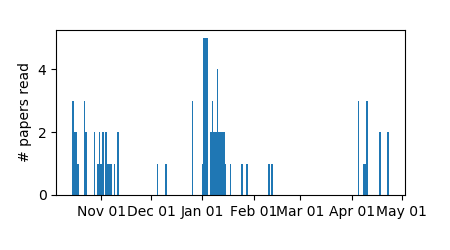
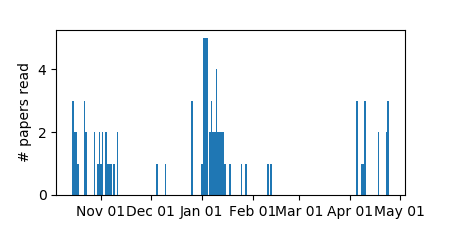
dvm papers

diff --git a/README.md b/README.md
@@ -69,10 +69,14 @@ Notes (author, year, journal in file header) on readings.  Top of each note docu
      * Salmon select focal points based on water-velocity and food supply to maximize net gain, and in specific regions, further organization is dictated by hierarchies in which dominant fish hold more optimal positions and thus increase their growth rates. 
 * [Fausch2014EBF - A historical perspective on drift foraging models for stream salmonids](https://github.com/leviner/ReadingList/tree/master/papers/ecology/fishes/Fausch2014EBF.md) 
      * An overview, given by Fausch, of the development of his drift foraging model and expansion and extended applications that have occurred since. 
+* [Mehner2012FB - Diel vertical migration of freshwater fishes - proximate triggers, ultimate causes and research perspectives](https://github.com/leviner/ReadingList/tree/master/papers/ecology/fishes/Mehner2012FB.md) 
+     * Review of patterns and mechanism of DVM in freshwater fish. 
 * [Power1984E - Depth Distributions of Armored Catfish: Predator-Induced Resource Avoidance?](https://github.com/leviner/ReadingList/tree/master/papers/ecology/fishes/Power1984E.md) 
      * Showed that for this population of loricariids, predation avoidance was more important than resource exploitation, and is dependent on age. 
 * [Robinson2019MEPS - Predation strategies of larval clownfish capturing evasive copepod prey](https://github.com/leviner/ReadingList/tree/master/papers/ecology/fishes/Robinson2019MEPS.md) 
      * Observe and quantify the feeding success and failure of larval fish as a function of both fish age (day post-hatch) and copepod stage. 
+* [ScheuerellSchindler2003E - Diel Vertical Migration by Juvenile Sockeye Salmon: Empirical Evidence for the Antipredation Window](https://github.com/leviner/ReadingList/tree/master/papers/ecology/fishes/ScheuerellSchindler2003E.md) 
+     * Juvenile sockeye migrate to maintain a specific light environment to minimize predation risk in lakes. 
 
 ### general 
  
@@ -80,8 +84,10 @@ Notes (author, year, journal in file header) on readings.  Top of each note docu
      * Brief letter on the history of behavioral ecology as a field 
 * [Heithaus2007JAE - State-dependent risk-taking by green sea turtles mediates top-down effects of tiger shark intimidation in a marine ecosystem](https://github.com/leviner/ReadingList/tree/master/papers/ecology/general/Heithaus2007JAE.md) 
      * Found that sea turtles in better condition were more likely to move out of regions of higher food quality when risk of predation increased.  Shark presence has non-lethal implications on the turtle and thus the seagrass population. 
-* [Lima1998B - Nonlethal Effects in the Ecology of Predator-Prey Interactions](https://github.com/leviner/ReadingList/tree/master/papers/ecology/general/Lima1998B.md) 
+* [Lampert1989FE - The Adaptive Significance of Diel Vertical Migration of Zooplankton](https://github.com/leviner/ReadingList/tree/master/papers/ecology/general/Lampert1989FE.md) 
      *  
+* [Lima1998B - Nonlethal Effects in the Ecology of Predator-Prey Interactions](https://github.com/leviner/ReadingList/tree/master/papers/ecology/general/Lima1998B.md) 
+     * Prey put in a significant amount of effort to avoid predation, and this behavior has major implications at the individual, population, and ecosystem level.  A review of the current research. 
 * [LimaDill1990CJZ - Behavioral decisions made under the risk of predation: a review and prospectus](https://github.com/leviner/ReadingList/tree/master/papers/ecology/general/LimaDill1990CJZ.md) 
      * Risk of predation is integral to decision making.  Here they outline many of the factors influenced by predation risk. 
 

diff --git a/papers/ecology/fishes/Mehner2012FB.md b/papers/ecology/fishes/Mehner2012FB.md
@@ -1,0 +1,35 @@
+04/24/19
+## Authors:
+Mehner, Thomas
+## Title:
+Diel vertical migration of freshwater fishes - proximate triggers, ultimate causes and research perspectives
+## Keywords:
+migration, feeding, predation, behavior
+## Geographic Coverage
+N/A
+## Field Dates:
+N/A
+## Significance:
+Review of patterns and mechanism of DVM in freshwater fish.
+
+## Notes:
+Significant work and review has been done on zooplankton DVM, with some work done on marine fish.  Here, the author provides an overview of these patterns in freshwater fish.
+
+Fish that perform DVM have two common traits: they are typically planktivorous, and they require cold/cool water, thus residing in the pelagic zone.  Thermal gradients in lakes, along with other abiotic drivers (which result in biotic gradients) are the cause of migration.  Vertical structure leads to microhabitats.
+
+Proximate cause: sensory-motor and developmental mechanisms, ultimate cause: the evolutionary development of behavior.  
+- Main proximate cause: light levels. depths and migration amplitude has correlated with water transparency (clearer water, migrate deeper, more predation risk). Vertical temperature may guide fish at night, looking for energetically optimal locations.
+- Ultimate causes are bioenergetics, feeding, and predation. Overall, none of the three following ultimate causes convincingly explain all cases of DVM.
+- Bioenergetic efficiency: maintaining low metabolic rate during the day in cold water and move into warmer water to feed.  However, if it was strictly bioenergetics, then they could reverse DVM and have the advantage of visual foraging.  DVM has also been reported in non-stratified lakes with no temperature gradients.  Additionally, fish grow fastest at warmer temperatures when food is not a variable.
+- Feeding Opportunity: Following preferred food, thus increasing encounter rate.  However DVM in fish also observed in lakes where zooplankton don't migrate.
+- Predator avoidance: Avoiding mortality from visual predators in high light.
+
+Multifactor explanations: 'anti predation window' where the visual predation range of fish and their predators differs, and planktonic fish can forage at lower light than piscivorous fish, thus prey fish move to dark layers in day to continue feeding, following the light window and minimizing predation risk while maximizing foraging potential.  Predation avoidance limits maximum growth potential.
+
+Wile this predicts the depth during the day, it doesn't predict the final position in the water column at night, and is suggested that fish may find bioenergetically optimal temperatures for their final spots and minimize swimming efforts.  A "complex interplay of various factors along several vertical gradients"
+
+Research Gaps: mechanisms
+- Energetics of migrations and buoyancy: the energy needed to maintain swimbladder volume and the speed of doing so.  Fish with compressed swim bladders have to produce additional lift (swimming) and exert more energy.  Oxygen requirements also differ with pressure.
+- How is tissue growth (and fat storage) influenced by cyclic temperature of DVM?
+- Age-specific migrations may depend on ontogenetic thermal preferences.
+- Threshold of light needed to feed?  Could be slow/unselective feeding in darkness or lighter feeding overall.  Light thresholds for predators are also needed.  DVM may be dependent on very slight variability in light, including moon.

diff --git a/papers/ecology/general/Lampert1989FE.md b/papers/ecology/general/Lampert1989FE.md
@@ -1,0 +1,56 @@
+04/24/19
+## Authors:
+Lampert, W.
+## Title:
+The Adaptive Significance of Diel Vertical Migration of Zooplankton
+## Keywords:
+migration, metabolic, tradeoffs, adaptation
+## Geographic Coverage
+N/A
+## Field Dates:
+N/A
+## Significance:
+
+## Notes:
+Many zooplankton perform DVM, typically evening ascent and morning descent.  Amplitude and shape of migration may differ by species and by age/stage, and be influenced by external conditions (turbidity, food).
+
+What we don't consider is the behavior and variability among individuals within the population migrating.  We only observe the net effect.
+
+DVM must have some adaptive value since everyone does it.  Serveral costs of migrating:
+- reduced food, thus slower growth
+- developmental time of eggs is extended
+- swimming requires energy
+
+Competing Hypotheses:
+- Metabolic or demographic advantage
+- avoidance of light-dependent mortality risk
+
+Metabolic and demographic advantage
+- resting in cold slow metabolic conditions during the day but still feeding in warm productive regions
+- copepods growing at cold temperatures may grow larger, resulting in a demographic advantage, though this has not been shown for those which grow in fluctuating temperatures
+- vertical migration appears to be energy disadvantageous
+
+*Energy conservation*
+- energy loss due to starvation in warm water would be greater than in cold, so migration may derive from the need to find food, migrating animals would receive a net gain, assuming feeding rate increases with temperature
+
+*Resource related Hypotheses*
+- algal biomass might be greater in the evening because growth during day, loses at night, and animals returning to the surface will feed at enhanced rates, with higher quality and abundance of food.
+- This depends on the animals feeding ability to adapt to changes in food concentration quickly.
+- Has been proposed to be a mechanism to reduce overexploitation. Harvesting at night and leaving algae to grow during the day results in a greater crop.
+
+Light related mortality
+- fitness is gained by reduced mortality instead of increased fecundity.  Zooplankton have no shelter, so their only refuge is darkness
+- You would predict:
+  - zooplankton must go up at dusk and back down at dawn
+  - larger animals (those more susceptible to being eaten by fish) would be the common ones to migrate
+  - amplitude of migration changes as a function of predation.  Seasonal patterns have in fact been observed as result of seasonal fish presence.
+- Visual predators are very effective at limiting fitness since they seek out larger and brooding animals
+
+Tradeoffs
+- There must be a tradeoff between maximum energy input and maximum protection, and thus migration is likely a compromise
+**In the presence of predation pressure, food availability and temperature gradients should determine migration patterns**
+
+No migration if the costs of staying deep are low, food availability is high and thermal gradient is not steep.  With increasingly bad conditions at depth, a higher ascent occurs.  In low food conditions, energy balance may not be maintained by only feeding for some period of time, thus they must take the rise of being at the surface and being eaten.
+
+Conclusions
+- Is there a unifying theory across all taxa?

diff --git a/papers/ecology/fishes/ScheuerellSchindler2003E.md b/papers/ecology/fishes/ScheuerellSchindler2003E.md
@@ -1,0 +1,31 @@
+04/24/19
+## Authors:
+Scheuerell, Mark D. and Schindler, Daniel E.
+## Title:
+Diel Vertical Migration by Juvenile Sockeye Salmon: Empirical Evidence for the Antipredation Window
+## Keywords:
+migration, feeding, predation, behavior, foraging
+## Geographic Coverage
+Wood River, Alaska, USA
+## Field Dates:
+07/08/2000 - 09/01/2000
+## Significance:
+Juvenile sockeye migrate to maintain a specific light environment to minimize predation risk in lakes.
+
+## Notes:
+Three hypotheses proposed for DVM:
+- bioenergetic efficiency: vertical temperature gradient, thus they select for growth, migrating to cold when not feeding
+- foraging opportunity: fish track prey in space and time
+- predator avoidance: move in response to piscivores.
+
+How does light effect both the predators and prey?  Antipredation window - visual range that minimizes predation risk while maximizing foraging.
+
+Hypothesis: sockeye would change their behavior to match the changes in light environment to best exploit the antipredation window.
+
+They did hydroacoustic surveys (200kHz) in July and September in 3 lakes in the river system, measuring the salmon, prey, and predator distributions (dB classification), and sampled the fish and zooplankton.  Estimated foraging as a function of reaction time, swim speed, and density of zooplankton, and predation risk as a function of swim speed, depth, and reactive distance.
+
+DVM occured in all lakes.  If the fish were merely tracking temperature, then they would likely remain much shallower since the thermocline was 30-40 meters shallower than the fish, and the energy costs of migration would outweigh the metabolic advantage of minimal temperature change.  
+
+No change in zooplankton distribution between night and day, only the salmon.
+
+Light levels were overall lower in the later sampling.  Ratio of predation risk to foraging changed between the July and September sampling.  In late-summer, light levels are low enough to inhibit foraging, thus limiting the window of time (light) where foraging outweighs predation.  This time, when risk/foraging ratio is near zero, aligns with when migration path crosses layer of highest predator density.

diff --git a/papers/ecology/general/Lima1998B.md b/papers/ecology/general/Lima1998B.md
@@ -10,6 +10,7 @@ N/A
 ## Field Dates:
 N/A
 ## Significance:
+Prey put in a significant amount of effort to avoid predation, and this behavior has major implications at the individual, population, and ecosystem level.  A review of the current research.
 
 ## Notes:
 Tradeoffs
@@ -32,3 +33,7 @@ Population level Consequences
 
 
 Few predator-prey models consider anti-predator decision making, and when included has been shown to stabilize oscillatory cycles.
+
+Non-lethality can indirectly influence ecosystems
+- Competitive outcomes: differential habitat selection under risk of predation prevents competitive exclusion between species.  Or the other way, where with no predator, they are evenly matched, but under predation, behavior of one species leads to its demise.  And if all is even, there may be competition for refuge space.
+- Top down: many effects are behavioral, due to avoidance of areas with predators, increasing bottom (e.g., algal growth).
